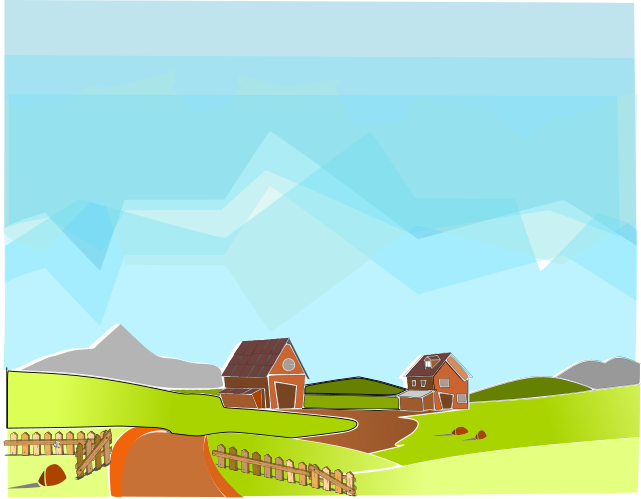
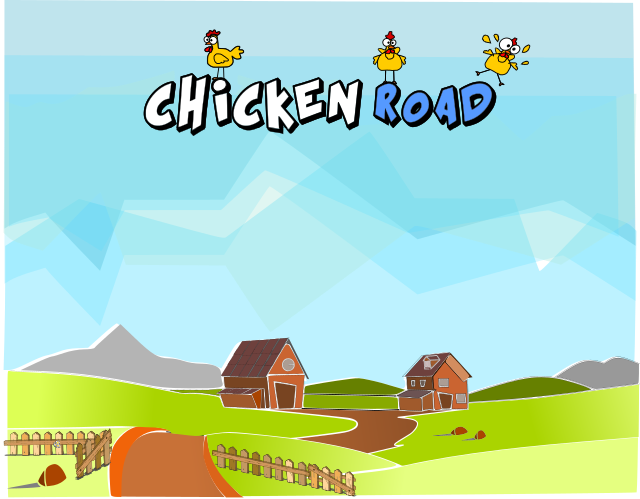
inserção do fundo de tela inicial, da animação da galinha morta e refatoração da classe PlayerAnimation.java.

diff --git a/core/src/br/com/chickenroad/animations/PlayerAnimation.java b/core/src/br/com/chickenroad/animations/PlayerAnimation.java
@@ -7,7 +7,7 @@ import com.badlogic.gdx.graphics.g2d.Animation;
 import com.badlogic.gdx.graphics.g2d.Batch;
 import com.badlogic.gdx.graphics.g2d.TextureRegion;
 
-import br.com.chickenroad.screens.util.Constantes;
+import br.com.chickenroad.entities.PlayerTypes;
 
 /**
  * 
@@ -18,119 +18,178 @@ public class PlayerAnimation {
 
 	private Animation walkAnimation;         
 
-	private Texture walkDirSheet; 
-	private Texture walkEsqSheet;
+	private Texture spriteSheet; 
+	/*private Texture walkEsqSheet;
 	private Texture jumpDirSheet;
 	private Texture jumpEsqSheet;
 	private Texture stopDirSheet;
 	private Texture walkCimSheet;
 	private Texture walkBaiSheet;
-	
-
+	private Texture deadSheet;
+*/
 	private TextureRegion[] walkFrames;            
 	private TextureRegion currentFrame;                                                
-	private TextureRegion[][] tmp;
+	private TextureRegion[][] spriteSheetTmp;
 
-	private TextureRegion[][] spriteSheetTmp1;
-	private TextureRegion[][] spriteSheetTmp2;
+	private AssetManager assetManager;
+	/*private TextureRegion[][] spriteSheetTmp2;
 	private TextureRegion[][] spriteSheetTmp3;
 	private TextureRegion[][] spriteSheetTmp4;
 	private TextureRegion[][] spriteSheetTmp5;
 	private TextureRegion[][] spriteSheetTmp6;
 	private TextureRegion[][] spriteSheetTmp7;
-
+	private TextureRegion[][] spriteSheetTmp8;
+*/
 	private float stateTime;  
 	private int index;
 	private float velAnimation=0;
 	private float posX=0, posY=0;
 
-	public PlayerAnimation(String sprite, AssetManager assetManager) {
+
+	public PlayerAnimation(AssetManager assetManager) {
 		super();
+		
+		this.assetManager = assetManager;
+				
 		//spritesheet animation
-		walkDirSheet = assetManager.get(Constantes.URL_PLAYER_AVATAR_RIGHT);
-		walkEsqSheet = assetManager.get(Constantes.URL_PLAYER_AVATAR_LEFT);
+		/*walkEsqSheet = assetManager.get(Constantes.URL_PLAYER_AVATAR_LEFT);
 		jumpDirSheet = assetManager.get(Constantes.URL_PLAYER_AVATAR_JUMP_RIGHT);
 		jumpEsqSheet = assetManager.get(Constantes.URL_PLAYER_AVATAR_JUMP_LEFT);
 		stopDirSheet = assetManager.get(Constantes.URL_PLAYER_AVATAR_STOP_RIGHT);
 		walkCimSheet = assetManager.get(Constantes.URL_PLAYER_AVATAR_UP);
 		walkBaiSheet = assetManager.get(Constantes.URL_PLAYER_AVATAR_DOWN);
-
+		deadSheet = assetManager.get(Constantes.URL_PLAYER_AVATAR_DEAD);
+		
 		tmp = TextureRegion.split(stopDirSheet,  stopDirSheet.getWidth()/5, stopDirSheet.getHeight());   
-		spriteSheetTmp1 = TextureRegion.split(walkDirSheet, walkDirSheet.getWidth()/5, walkDirSheet.getHeight());   
 		spriteSheetTmp2 = TextureRegion.split(walkEsqSheet,  walkEsqSheet.getWidth()/5, walkEsqSheet.getHeight());   
 		spriteSheetTmp3 = TextureRegion.split(jumpDirSheet, jumpDirSheet.getWidth()/5, jumpDirSheet.getHeight());   
 		spriteSheetTmp4 = TextureRegion.split(jumpEsqSheet, jumpEsqSheet.getWidth()/5, jumpEsqSheet.getHeight());   
 		spriteSheetTmp5 = TextureRegion.split(stopDirSheet, stopDirSheet.getWidth()/5, stopDirSheet.getHeight());
 		spriteSheetTmp6 = TextureRegion.split(walkCimSheet,  walkCimSheet.getWidth()/5, walkCimSheet.getHeight());   
 		spriteSheetTmp7 = TextureRegion.split(walkBaiSheet,  walkBaiSheet.getWidth()/5, walkBaiSheet.getHeight());   
-
+		spriteSheetTmp8 = TextureRegion.split(deadSheet,  walkBaiSheet.getWidth()/3, walkBaiSheet.getHeight());   
+		
 		walkFrames = new TextureRegion[5]; 
 		
 		this.velAnimation = 1f/20f;
-	}
-
+	*/}
 
 	public void inicializar (float x, float y) {
 		this.posX = x;
 		this.posY = y;
-		index = 0;
-
-		for (int i = 0; i < 1; i++){
-			for (int j = 0; j < tmp[0].length; j++){
-				walkFrames[index] = tmp[i][j];
-				index++;
-			}
-		}
-		walkAnimation = new Animation(velAnimation, walkFrames);  
-		stateTime = 0f;   
 	}
+	
+	//muda o sprite sheet
+	public void setSpriteSheet(String sprite, PlayerTypes ptypes){
+		
+		switch(ptypes){
+			case  AVATAR_RIGHT:
+				spriteSheet = assetManager.get(sprite);
+				spriteSheetTmp = TextureRegion.split(spriteSheet, spriteSheet.getWidth()/5, spriteSheet.getHeight());   
+				
+				walkFrames = new TextureRegion[5]; 
 
-	private void initSpriteSheet() {
-		index = 0;
+				this.velAnimation = 1f/20f;
 
-		for (int i = 0; i < 1; i++){
-			for (int j = 0; j < tmp[0].length; j++){
-				walkFrames[index] = tmp[i][j];
-				index++;
-			}
-		}
-		walkAnimation = new Animation(velAnimation, walkFrames);  
-		stateTime = 0f;   
+			break;
+	
+			case AVATAR_LEFT:
+				spriteSheet = assetManager.get(sprite);
+				spriteSheetTmp = TextureRegion.split(spriteSheet, spriteSheet.getWidth()/5, spriteSheet.getHeight());   
+				
+				walkFrames = new TextureRegion[5]; 
 
-	}
+				this.velAnimation = 1f/20f;
 
-	//seleciona o avatar para cada acao do player
-	public void changeSpriteSheet(int ss) {
+			break;
 
-		switch(ss){
-		case 1:
-			tmp = spriteSheetTmp1;
+			case AVATAR_UP:
+				spriteSheet = assetManager.get(sprite);
+				spriteSheetTmp = TextureRegion.split(spriteSheet, spriteSheet.getWidth()/5, spriteSheet.getHeight());   
+				
+				walkFrames = new TextureRegion[5]; 
+
+				this.velAnimation = 1f/20f;
+
 			break;
-		case 2:
-			tmp = spriteSheetTmp2;
+
+			case AVATAR_DOWN:
+				spriteSheet = assetManager.get(sprite);
+				spriteSheetTmp = TextureRegion.split(spriteSheet, spriteSheet.getWidth()/5, spriteSheet.getHeight());   
+				
+				walkFrames = new TextureRegion[5]; 
+
+				this.velAnimation = 1f/20f;
+
 			break;
-		case 3:
-			tmp = spriteSheetTmp3;
+			
+			case AVATAR_JUMP_RIGHT:
+				spriteSheet = assetManager.get(sprite);
+				spriteSheetTmp = TextureRegion.split(spriteSheet, spriteSheet.getWidth()/5, spriteSheet.getHeight());   
+				
+				walkFrames = new TextureRegion[5]; 
+
+				this.velAnimation = 1f/20f;
+
 			break;
-		case 4:
-			tmp = spriteSheetTmp4;
+
+			case AVATAR_JUMP_LEFT:
+				spriteSheet = assetManager.get(sprite);
+				spriteSheetTmp = TextureRegion.split(spriteSheet, spriteSheet.getWidth()/5, spriteSheet.getHeight());   
+				
+				walkFrames = new TextureRegion[5]; 
+
+				this.velAnimation = 1f/20f;
+
 			break;
-		case 5:
-			tmp = spriteSheetTmp5;
+			
+			case AVATAR_STOP_RIGHT:
+				spriteSheet = assetManager.get(sprite);
+				spriteSheetTmp = TextureRegion.split(spriteSheet, spriteSheet.getWidth()/5, spriteSheet.getHeight());   
+				
+				walkFrames = new TextureRegion[5]; 
+
+				this.velAnimation = 1f/20f;
+
 			break;
-		case 6:
-			tmp = spriteSheetTmp6;
+			
+			case AVATAR_STOP_LEFT:
+				spriteSheet = assetManager.get(sprite);
+				spriteSheetTmp = TextureRegion.split(spriteSheet, spriteSheet.getWidth()/5, spriteSheet.getHeight());   
+				
+				walkFrames = new TextureRegion[5]; 
+
+				this.velAnimation = 1f/20f;
+
 			break;
-		case 7:
-			tmp = spriteSheetTmp7;
-			break;
-		default:
+			case AVATAR_DEAD:
+				spriteSheet = assetManager.get(sprite);
+				spriteSheetTmp = TextureRegion.split(spriteSheet, spriteSheet.getWidth()/1, spriteSheet.getHeight());   
+				
+				walkFrames = new TextureRegion[1]; 
+
+				this.velAnimation = 1f/18f;
+
 			break;
 		}
 
 		initSpriteSheet();
 	}
+	
+	private void initSpriteSheet() {
+		index = 0;
 
+		for (int i = 0; i < 1; i++){
+			for (int j = 0; j < spriteSheetTmp[0].length; j++){
+				walkFrames[index] = spriteSheetTmp[i][j];
+				index++;
+			}
+		}
+		
+		walkAnimation = new Animation(velAnimation, walkFrames);  
+		stateTime = 0f;   
+	}
+	
 	/**
 	 * @return the currentFrame
 	 */

diff --git a/core/src/br/com/chickenroad/entities/Player.java b/core/src/br/com/chickenroad/entities/Player.java
@@ -26,10 +26,6 @@ public class Player extends Sprite{
 	private float demageTimerPerSecond, timer;
 	private boolean demage;
 	private boolean colisionVehiclesStatus; // retorna o estado atual da colis�o com veiculos
-	public boolean isColisionVehiclesStatus() {
-		return colisionVehiclesStatus;
-	}
-
 	private int widthTiledMap, heightTileMap;
 
 	private PlayerLife playerLife;
@@ -38,7 +34,7 @@ public class Player extends Sprite{
 	public Player(String sprite, AssetManager assetManager, int aWidthTiledMap, int aHeightTiledMap) {
 		super(new Texture(sprite));
 
-		this.playerAnimation = new PlayerAnimation(sprite, assetManager);
+		this.playerAnimation = new PlayerAnimation(assetManager);
 		this.widthTiledMap = aWidthTiledMap;
 		this.heightTileMap = aHeightTiledMap;
 		this.demageTimerPerSecond = 3;
@@ -48,6 +44,9 @@ public class Player extends Sprite{
 		playerLife = new PlayerLife(assetManager);
 	}
 
+	public boolean isColisionVehiclesStatus() {
+		return colisionVehiclesStatus;
+	}
 	public void updatePlayerPosition(float delta, List<Rectangle> tiles, ArrayList<Vehicle> vehiclesList) {
 
 		float newPositionX = this.getX()+velocity.x*delta;
@@ -94,7 +93,7 @@ public class Player extends Sprite{
 		}
 		
 		if(velocity.x == 0 && velocity.y == 0)
-			playerAnimation.changeSpriteSheet(5);
+			playerAnimation.setSpriteSheet(Constantes.URL_PLAYER_AVATAR_STOP_RIGHT, PlayerTypes.AVATAR_STOP_RIGHT);
 	}
 
 	private void demage(int i) {
@@ -170,17 +169,17 @@ public class Player extends Sprite{
 			if(declividadeReta <= 0.5 && declividadeReta >= -0.5) {
 				velocity.x = speed;
 				playerDirectionX = Direction.RIGHT;
-				playerAnimation.changeSpriteSheet(1);
+				playerAnimation.setSpriteSheet(Constantes.URL_PLAYER_AVATAR_RIGHT, PlayerTypes.AVATAR_RIGHT);
 			}
 			if(declividadeReta > 0.5) {
 				velocity.y = speed;
 				playerDirectionY = Direction.UP;
-				playerAnimation.changeSpriteSheet(6);
+				playerAnimation.setSpriteSheet(Constantes.URL_PLAYER_AVATAR_UP, PlayerTypes.AVATAR_UP);
 			}
 			if(declividadeReta < -0.5) {
 				velocity.y = -speed;
 				playerDirectionY = Direction.DOWN;
-				playerAnimation.changeSpriteSheet(7);
+				playerAnimation.setSpriteSheet(Constantes.URL_PLAYER_AVATAR_DOWN, PlayerTypes.AVATAR_DOWN);
 			}
 		}
 		
@@ -188,17 +187,18 @@ public class Player extends Sprite{
 			if(declividadeReta >= -0.5 && declividadeReta <=0.5) {
 				velocity.x = -speed;
 				playerDirectionX = Direction.LEFT;
-				playerAnimation.changeSpriteSheet(2);
+				playerAnimation.setSpriteSheet(Constantes.URL_PLAYER_AVATAR_LEFT, PlayerTypes.AVATAR_LEFT);
+
 			}
 			if(declividadeReta < -0.5) {
 				velocity.y = speed;
 				playerDirectionY = Direction.UP;
-				playerAnimation.changeSpriteSheet(6);
+				playerAnimation.setSpriteSheet(Constantes.URL_PLAYER_AVATAR_UP, PlayerTypes.AVATAR_UP);
 			}
 			if(declividadeReta > 0.5) {
 				velocity.y = -speed;
 				playerDirectionY = Direction.DOWN;
-				playerAnimation.changeSpriteSheet(7);
+				playerAnimation.setSpriteSheet(Constantes.URL_PLAYER_AVATAR_DOWN, PlayerTypes.AVATAR_DOWN);
 			}
 		}
 		
@@ -249,6 +249,10 @@ public class Player extends Sprite{
 
 	public PlayerLife getPlayerLife() {
 		return playerLife;
+	}
+	//
+	public PlayerAnimation getPlayerAnimation() {
+		return playerAnimation;
 	}
 
 	@Override

diff --git a/core/src/br/com/chickenroad/screens/util/ResourceManager.java b/core/src/br/com/chickenroad/screens/util/ResourceManager.java
@@ -49,7 +49,6 @@ public class ResourceManager {
 		assetManager.load(Constantes.URL_SOUND_END_FASE_COIN, Music.class);
 		assetManager.load(Constantes.URL_SOUND_SHEEP, Music.class);
 
-		
 		assetManager.load("pauseFaseButton.png", Texture.class);
 		assetManager.load("playFaseButton.png", Texture.class);
 		assetManager.load("restartFaseButton.png", Texture.class);
@@ -61,7 +60,6 @@ public class ResourceManager {
 		
 		assetManager.load("congratulation.png", Texture.class);
 
-		
 		//player
 		assetManager.load(Constantes.URL_PLAYER_AVATAR_RIGHT, Texture.class);
 		assetManager.load(Constantes.URL_PLAYER_AVATAR_LEFT, Texture.class);
@@ -71,6 +69,7 @@ public class ResourceManager {
 		assetManager.load(Constantes.URL_PLAYER_AVATAR_STOP_LEFT, Texture.class);
 		assetManager.load(Constantes.URL_PLAYER_AVATAR_UP, Texture.class);
 		assetManager.load(Constantes.URL_PLAYER_AVATAR_DOWN, Texture.class);
+		assetManager.load(Constantes.URL_PLAYER_AVATAR_DEAD, Texture.class);
 
 		
 		//sprites secundarios do cenario

diff --git a/core/src/br/com/chickenroad/screens/screenparts/MainMenuButtons.java b/core/src/br/com/chickenroad/screens/screenparts/MainMenuButtons.java
@@ -45,8 +45,8 @@ public class MainMenuButtons {
 		final int positionXMenu = 68;
 		final int positionYMenu = 120;
 
-		spritePlay.setPosition(Constantes.WORLD_WIDTH/2-positionXMenu, Constantes.WORLD_HEIGHT/2);
-		spriteExit.setPosition(Constantes.WORLD_WIDTH/2-positionXMenu, Constantes.WORLD_HEIGHT/2-positionYMenu);
+		spritePlay.setPosition(Constantes.WORLD_WIDTH/2-positionXMenu-35, Constantes.WORLD_HEIGHT/2);
+		spriteExit.setPosition(Constantes.WORLD_WIDTH/2-positionXMenu-35, Constantes.WORLD_HEIGHT/2-positionYMenu);
 
 		spritePlay.draw(spriteBatch);
 		spriteExit.draw(spriteBatch);

diff --git a/core/src/br/com/chickenroad/screens/util/Constantes.java b/core/src/br/com/chickenroad/screens/util/Constantes.java
@@ -70,6 +70,7 @@ public class Constantes {
 	public static final String URL_PLAYER_AVATAR_STOP_LEFT = "player/playerE_parado.png";
 	public static final String URL_PLAYER_AVATAR_UP = "player/playerU_caminhando.png";
 	public static final String URL_PLAYER_AVATAR_DOWN = "player/playerB_caminhando.png";
+	public static final String URL_PLAYER_AVATAR_DEAD = "player/player_morto.png";
 
 	
 	//sprites secundarios

diff --git a/core/src/br/com/chickenroad/entities/PlayerTypes.java b/core/src/br/com/chickenroad/entities/PlayerTypes.java
@@ -1,0 +1,13 @@
+package br.com.chickenroad.entities;
+
+public enum PlayerTypes {
+		AVATAR_RIGHT,
+		AVATAR_LEFT,
+		AVATAR_UP,
+		AVATAR_DOWN,
+		AVATAR_JUMP_RIGHT,
+		AVATAR_JUMP_LEFT,
+		AVATAR_STOP_RIGHT,
+		AVATAR_STOP_LEFT,
+		AVATAR_DEAD;
+}
